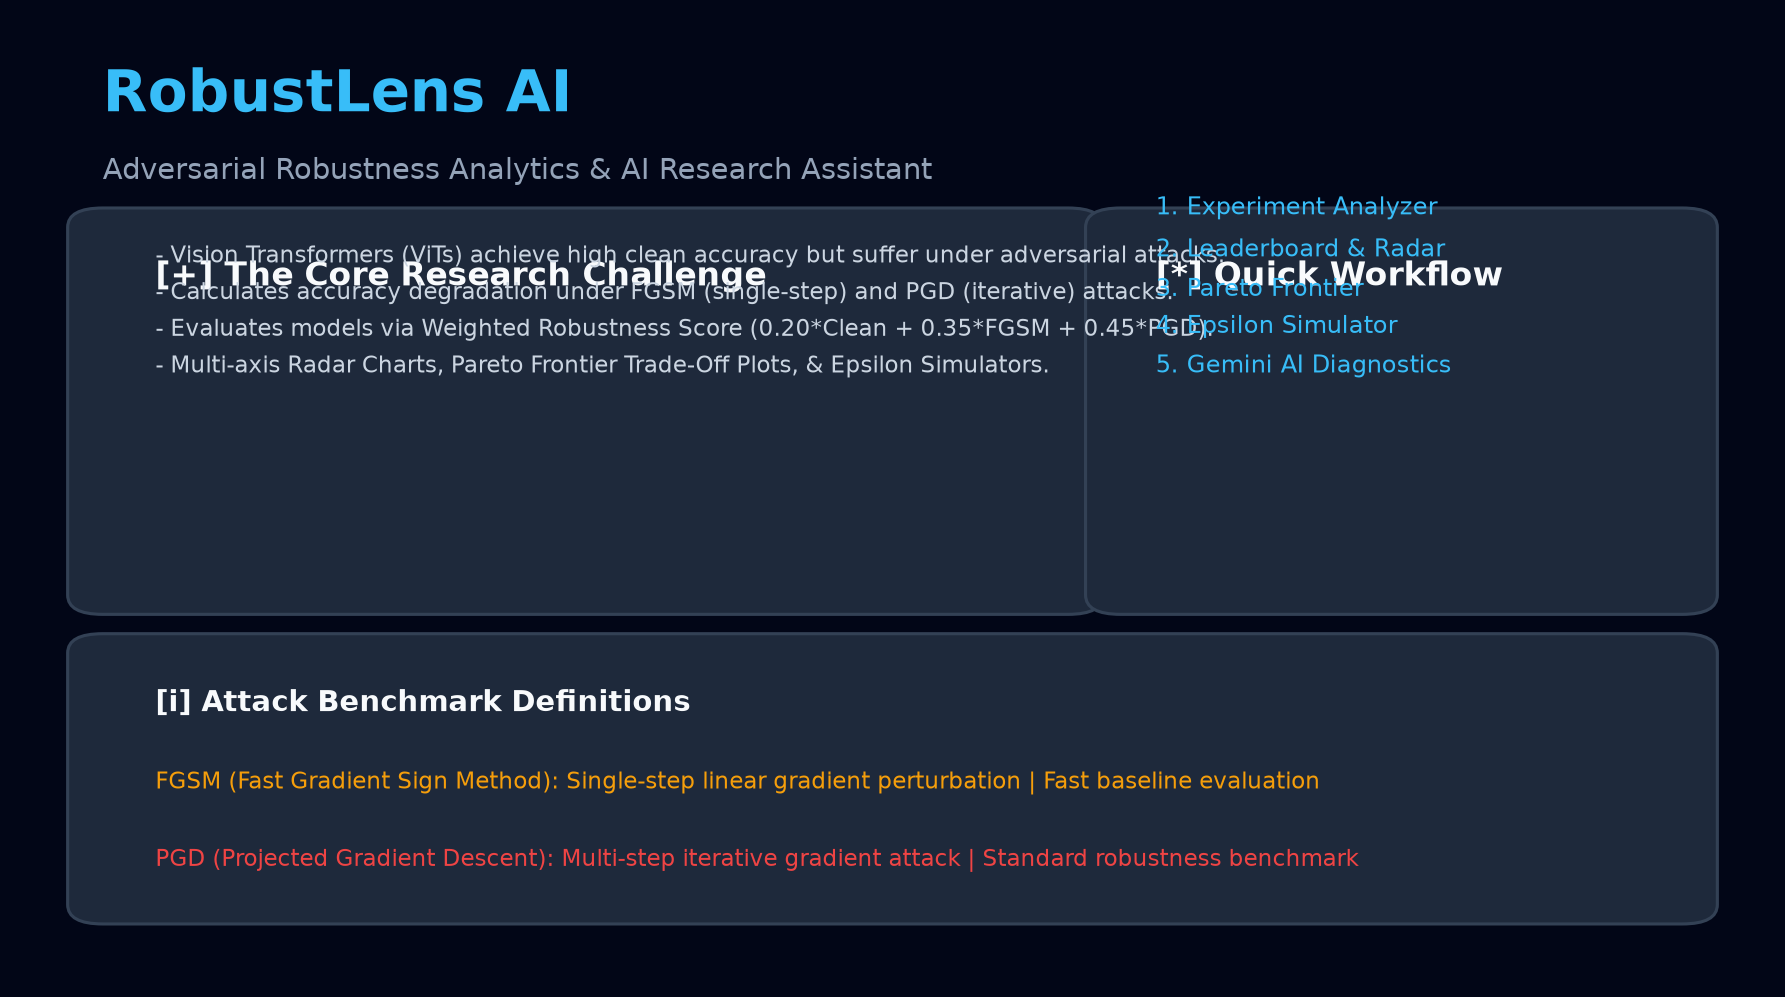
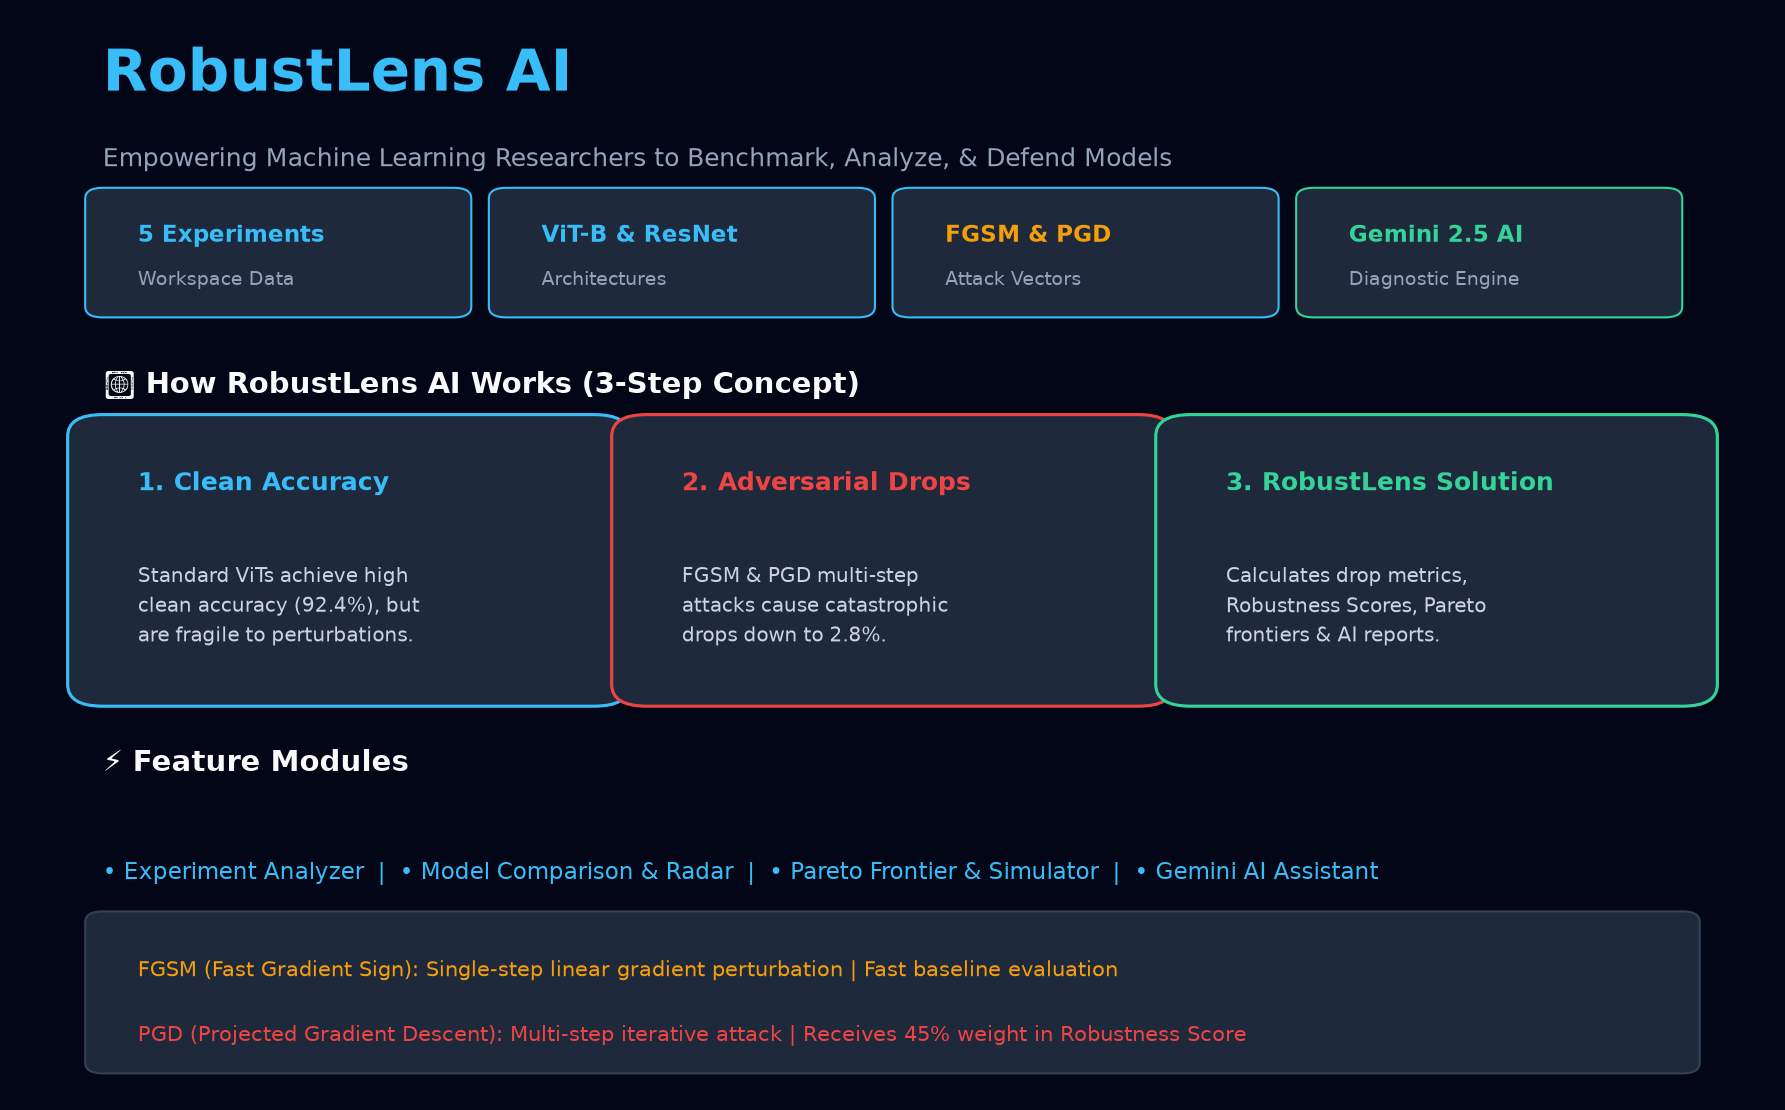
Redesign Home page into a 3-step visual problem-solution flow with module grid & benchmark preview

diff --git a/app.py b/app.py
@@ -391,71 +391,162 @@ with st.sidebar:
 # ---------------------------------------------------------
 if page == "🏠 Home":
     st.markdown('<div class="header-title">RobustLens AI</div>', unsafe_allow_html=True)
-    st.markdown('<div class="sub-title">Adversarial Robustness Evaluation & Diagnostic Assistant for Vision Transformers & CNNs</div>', unsafe_allow_html=True)
+    st.markdown('<div class="sub-title">Empowering Machine Learning Researchers & Students to Benchmark, Analyze, and Defend Models Against Adversarial Threats</div>', unsafe_allow_html=True)
     
-    c1, c2 = st.columns([3, 2])
-    
-    with c1:
-        st.markdown(r"""
-        <div class="glass-card">
-            <h3>📌 The Core Research Challenge</h3>
-            <p>
-                Deep Neural Networks—especially modern <b>Vision Transformers (ViTs)</b>—achieve remarkable clean classification performance. However, they are fragile under tiny, adversarial perturbations.
-            </p>
-            <p>
-                Evaluating defensive fine-tuning methods like <b>FGSM-AT</b>, <b>PGD-AT</b>, or <b>TRADES</b> introduces complex trade-offs between clean accuracy retention and adversarial defense strength.
-            </p>
-            <h4 style="margin-top: 15px;">💡 How RobustLens AI Helps:</h4>
-            <ul>
-                <li><b>Automated Drop Metrics</b>: Computes Clean - FGSM and Clean - PGD accuracy degradation instantly.</li>
-                <li><b>Weighted Robustness Score</b>: Combines clean retention and attack defenses (0.20·Clean + 0.35·FGSM + 0.45·PGD).</li>
-                <li><b>Interactive Visualizations</b>: Grouped multi-bar charts, Radar charts, and Pareto Frontier trade-off analysis.</li>
-                <li><b>Epsilon Attack Simulator</b>: Simulates model accuracy breakdown across increasing attack strengths (ε).</li>
-                <li><b>Gemini AI Diagnostics</b>: Custom system instruction evaluates trade-offs and suggests next steps.</li>
-            </ul>
+    # Quick Status Summary Row
+    calc_df = calculate_metrics(st.session_state.experiments)
+    c_m1, c_m2, c_m3, c_m4 = st.columns(4)
+    with c_m1:
+        st.markdown(f"""
+        <div class="metric-box">
+            <div class="metric-lbl">Active Experiments</div>
+            <div class="metric-val">{len(calc_df)}</div>
+            <div class="metric-sub">Loaded in Workspace</div>
         </div>
         """, unsafe_allow_html=True)
-        
-    with c2:
-        st.markdown("""
-        <div class="glass-card">
-            <h3>⚡ Quickstart Workflow</h3>
-            <ol style="padding-left: 20px;">
-                <li><b>Experiment Analyzer</b>: Add custom experiment data or import CSV logs.</li>
-                <li><b>Model Comparison</b>: View performance leaderboards, radar charts, & best-in-class highlights.</li>
-                <li><b>Pareto Frontier</b>: Analyze clean vs. robust accuracy trade-offs.</li>
-                <li><b>Epsilon Simulator</b>: Model performance degradation as attack strength grows.</li>
-                <li><b>AI Assistant</b>: Generate paper-ready commentary with Google Gemini.</li>
-            </ol>
+    with c_m2:
+        st.markdown(f"""
+        <div class="metric-box">
+            <div class="metric-lbl">Evaluated Models</div>
+            <div class="metric-val">{calc_df['Model Name'].nunique() if not calc_df.empty else 0}</div>
+            <div class="metric-sub">Architectures</div>
+        </div>
+        """, unsafe_allow_html=True)
+    with c_m3:
+        st.markdown(f"""
+        <div class="metric-box">
+            <div class="metric-lbl">Attacks Benchmark</div>
+            <div class="metric-val">FGSM & PGD</div>
+            <div class="metric-sub">Single & Multi-step</div>
+        </div>
+        """, unsafe_allow_html=True)
+    with c_m4:
+        st.markdown(f"""
+        <div class="metric-box">
+            <div class="metric-lbl">AI Diagnostic Engine</div>
+            <div class="metric-val" style="color:#34D399;">Gemini AI</div>
+            <div class="metric-sub">Custom Research Prompt</div>
         </div>
         """, unsafe_allow_html=True)
 
     st.markdown("---")
-    st.markdown("### 📚 Adversarial Attack Reference")
     
+    # 3-Step Visual Concept Flow
+    st.markdown("### 📌 How RobustLens AI Works (3-Step Concept)")
+    flow1, flow2, flow3 = st.columns(3)
+    
+    with flow1:
+        st.markdown(r"""
+        <div class="glass-card" style="height: 100%; border-top: 3px solid #38BDF8;">
+            <h4 style="color:#38BDF8 !important;">1⃣ Clean Accuracy</h4>
+            <p style="font-size:0.95rem; line-height:1.6;">
+                Standard models (e.g. <b>ViT-B/16</b> or <b>ResNet-50</b>) achieve high clean accuracy (e.g. <b>92.4%</b>), but are vulnerable to invisible noise perturbations.
+            </p>
+        </div>
+        """, unsafe_allow_html=True)
+        
+    with flow2:
+        st.markdown(r"""
+        <div class="glass-card" style="height: 100%; border-top: 3px solid #EF4444;">
+            <h4 style="color:#EF4444 !important;">2⃣ Adversarial Drops</h4>
+            <p style="font-size:0.95rem; line-height:1.6;">
+                Attacks like <b>FGSM</b> (single-step) and <b>PGD</b> (multi-step) cause accuracy to drop catastrophically (down to <b>2.8%</b> accuracy).
+            </p>
+        </div>
+        """, unsafe_allow_html=True)
+        
+    with flow3:
+        st.markdown(r"""
+        <div class="glass-card" style="height: 100%; border-top: 3px solid #34D399;">
+            <h4 style="color:#34D399 !important;">3⃣ RobustLens Solution</h4>
+            <p style="font-size:0.95rem; line-height:1.6;">
+                Automates <b>Drop Metrics</b>, computes weighted <b>Robustness Scores</b>, plots <b>Pareto Frontiers</b>, & runs <b>Gemini AI Diagnostics</b>.
+            </p>
+        </div>
+        """, unsafe_allow_html=True)
+
+    st.markdown("---")
+    
+    # 4 Core Modules Navigation Overview
+    st.markdown("### ⚡ App Feature Modules")
+    mod1, mod2, mod3, mod4 = st.columns(4)
+    
+    with mod1:
+        st.markdown("""
+        <div class="glass-card" style="text-align:center;">
+            <h3>🧪</h3>
+            <h4>Experiment Analyzer</h4>
+            <p style="font-size:0.85rem; color:#94A3B8;">Input single experiment logs or import batch CSV datasets.</p>
+        </div>
+        """, unsafe_allow_html=True)
+        
+    with mod2:
+        st.markdown("""
+        <div class="glass-card" style="text-align:center;">
+            <h3>📊</h3>
+            <h4>Model Comparison</h4>
+            <p style="font-size:0.85rem; color:#94A3B8;">Leaderboards, grouped bar charts, & 4-axis radar charts.</p>
+        </div>
+        """, unsafe_allow_html=True)
+        
+    with mod3:
+        st.markdown("""
+        <div class="glass-card" style="text-align:center;">
+            <h3>📈</h3>
+            <h4>Pareto & Simulator</h4>
+            <p style="font-size:0.85rem; color:#94A3B8;">Clean vs. Robust trade-off frontiers & attack decay curves.</p>
+        </div>
+        """, unsafe_allow_html=True)
+        
+    with mod4:
+        st.markdown("""
+        <div class="glass-card" style="text-align:center;">
+            <h3>🤖</h3>
+            <h4>AI Co-Pilot</h4>
+            <p style="font-size:0.85rem; color:#94A3B8;">Academic research reports & experiment recommendations.</p>
+        </div>
+        """, unsafe_allow_html=True)
+
+    st.markdown("---")
+    
+    # Adversarial Attack Reference
+    st.markdown("### 📚 Adversarial Attack Reference Guide")
     col_a, col_b = st.columns(2)
     with col_a:
         st.markdown(r"""
         <div class="glass-card">
-            <h4>⚡ FGSM (Fast Gradient Sign Method)</h4>
-            <p style="color: #94A3B8; font-size: 0.9rem;">Single-step linear gradient perturbation attack.</p>
+            <h4 style="color:#F59E0B !important;">⚡ FGSM (Fast Gradient Sign Method)</h4>
+            <p style="color: #94A3B8; font-size: 0.85rem;">Single-step linear gradient perturbation attack.</p>
             <code>x_adv = x + ε · sign(∇_x L(θ, x, y))</code>
-            <p style="margin-top: 10px; font-size: 0.95rem;">
-                Fast baseline evaluation for first-order gradient alignment vulnerabilities.
+            <p style="margin-top: 10px; font-size: 0.9rem;">
+                Evaluates first-order linear gradient alignment vulnerability. Fast computation speed.
             </p>
         </div>
         """, unsafe_allow_html=True)
     with col_b:
         st.markdown(r"""
         <div class="glass-card">
-            <h4>🔄 PGD (Projected Gradient Descent)</h4>
-            <p style="color: #94A3B8; font-size: 0.9rem;">Multi-step iterative projected gradient attack.</p>
+            <h4 style="color:#EF4444 !important;">🔄 PGD (Projected Gradient Descent)</h4>
+            <p style="color: #94A3B8; font-size: 0.85rem;">Multi-step iterative projected gradient attack.</p>
             <code>x^{t+1} = Π_{x+S}(x^t + α · sign(∇_x L(θ, x^t, y)))</code>
-            <p style="margin-top: 10px; font-size: 0.95rem;">
-                Considered the standard benchmark for non-obfuscated multi-step attack resistance.
+            <p style="margin-top: 10px; font-size: 0.9rem;">
+                Standard multi-step attack benchmark. PGD receives 45% weight in the Robustness Score.
             </p>
         </div>
         """, unsafe_allow_html=True)
+
+    st.markdown("---")
+    
+    # Sample Benchmark Preview Table
+    st.markdown("### 📋 Sample Benchmark Dataset Preview")
+    st.caption("Pre-loaded research evaluation logs on CIFAR-10 benchmark:")
+    st.dataframe(
+        calc_df[[
+            "Experiment Name", "Model Name", "Fine-tuning Method",
+            "Clean Accuracy (%)", "FGSM Accuracy (%)", "PGD Accuracy (%)", "Robustness Score"
+        ]],
+        use_container_width=True
+    )
 
 # ---------------------------------------------------------
 # PAGE 2: EXPERIMENT ANALYZER
